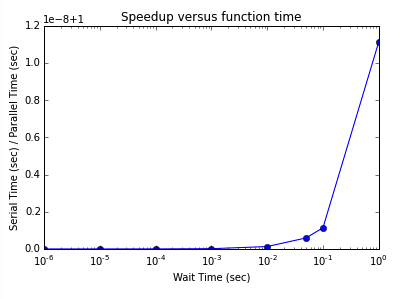
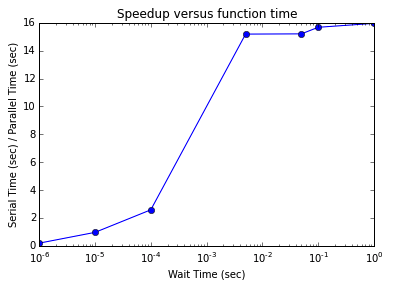
updated time.time() usage for question 6. added new and updated plot.

diff --git a/HW0/P6/P6B.py b/HW0/P6/P6B.py
@@ -16,19 +16,21 @@ if __name__ == '__main__':
 
     # Use a variety of wait times
     ratio = [] #empty ratio array to be filled in below
-    wait_time = np.array([10**-6,10**-5,10**-4,10**-3,10**-2,.5*10**-1,10**-1,1])
+    wait_time = np.array([10**-6,10**-5,10**-4,0.5*10**-2,0.5*10**-1,10**-1,1])
 
     for t in wait_time:
         # Compute jobs serially and in parallel
-        pool.map(burnTime(t),range(N))        
-        parallelTime = time.time()        
+        begin = time.time()
+        pool.map(burnTime(t),range(N))                        
+        parallelTime = time.time() - begin   
         
         i = 1
+        begin2 = time.time()
         while i<=N:
             burnTime(t)
-            serialTime = time.time()
             i+=1
-
+        serialTime = time.time() - begin2
+        
         # Compute the ratio of these times
         ratio.append(serialTime/parallelTime)
 
